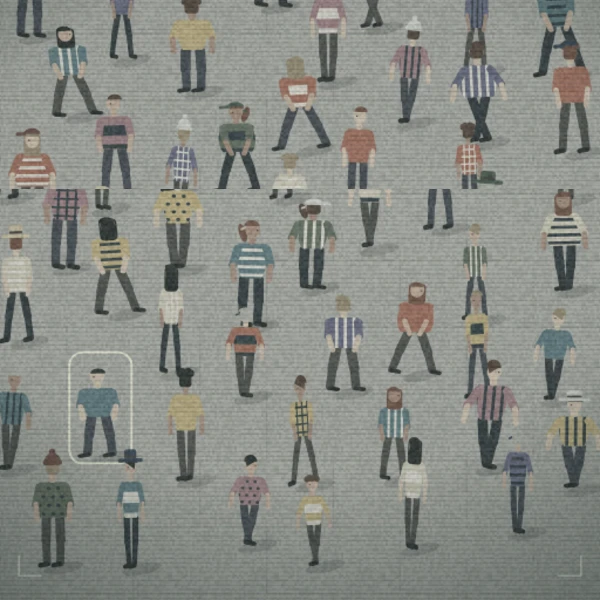
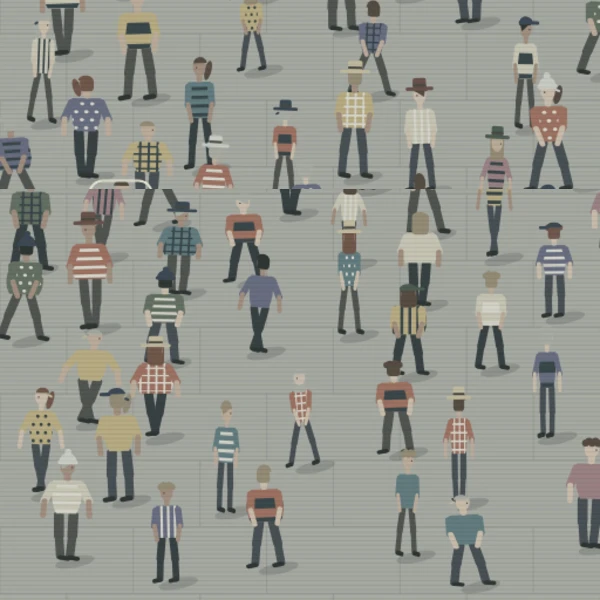
監視カメラの効果を薄い走査線と色味だけに調整

diff --git a/games/_shuto/index.html b/games/_shuto/index.html
@@ -431,49 +431,21 @@
     if(state===S.RESULT&&p.id===attacker){ctx.strokeStyle='#f7cc71';ctx.lineWidth=3;ctx.beginPath();ctx.ellipse(q.x,q.y-44,32,50,0,0,Math.PI*2);ctx.stroke();}
   }
 
-  var cameraPrepared=false,cameraNoise=null,cameraLines=null,cameraShade=null,cameraHeight=0;
-  function prepareCamera(){
+  var cameraPrepared=false,cameraLines=null;
+  function drawCamera(){
     if(!cameraPrepared){
       cameraPrepared=true;
-      var grain=document.createElement('canvas');grain.width=grain.height=96;
-      var g=grain.getContext('2d'),seed=8191;
-      // 映像の粒はゲームの抽選とは別に作り、毎コマの画像生成を避ける。
-      for(var y=0;y<96;y+=2)for(var x=0;x<96;x+=2){
-        seed=(Math.imul(seed,1664525)+1013904223)>>>0;
-        var light=seed>>>24;g.fillStyle='rgb('+light+','+light+','+light+')';g.fillRect(x,y,2,2);
-      }
-      cameraNoise=ctx.createPattern(grain,'repeat');
       var scan=document.createElement('canvas');scan.width=4;scan.height=4;
-      var sc=scan.getContext('2d');sc.fillStyle='rgba(12,27,25,.12)';sc.fillRect(0,0,4,1);
+      var sc=scan.getContext('2d');sc.fillStyle='rgba(12,27,25,.08)';sc.fillRect(0,0,4,1);
       cameraLines=ctx.createPattern(scan,'repeat');
     }
-    if(cameraHeight!==H){
-      cameraHeight=H;
-      cameraShade=ctx.createRadialGradient(W/2,H*.46,W*.18,W/2,H*.48,H*.64);
-      cameraShade.addColorStop(0,'rgba(7,20,18,0)');
-      cameraShade.addColorStop(.55,'rgba(7,20,18,.04)');
-      cameraShade.addColorStop(1,'rgba(7,20,18,.43)');
-    }
-  }
-  function drawCamera(){
-    prepareCamera();ctx.save();
-    // 色は残しつつ彩度を落とし、冷たい色味の録画へ寄せる。
+    ctx.save();
+    // 走査線と冷たい色味だけを薄く重ねる。
     ctx.globalCompositeOperation='saturation';ctx.globalAlpha=.42;
     ctx.fillStyle='#888';ctx.fillRect(0,0,W,H);
     ctx.globalCompositeOperation='source-over';ctx.globalAlpha=1;
     ctx.fillStyle='rgba(38,69,63,.11)';ctx.fillRect(0,0,W,H);
     if(cameraLines){ctx.fillStyle=cameraLines;ctx.fillRect(0,0,W,H);}
-    if(cameraNoise){
-      ctx.save();var frame=Math.floor(T*12);
-      var nx=(frame*37)%96,ny=(frame*53)%96;ctx.translate(-nx,-ny);
-      ctx.globalAlpha=.085;ctx.fillStyle=cameraNoise;ctx.fillRect(0,0,W+96,H+96);ctx.restore();
-    }
-    ctx.fillStyle=cameraShade;ctx.fillRect(0,0,W,H);
-    // 文字を加えず、撮影枠だけを薄く重ねる。
-    ctx.strokeStyle='rgba(224,238,224,.4)';ctx.lineWidth=1.2;
-    [[17,22,1,1],[W-17,22,-1,1],[17,H-22,1,-1],[W-17,H-22,-1,-1]].forEach(function(c){
-      ctx.beginPath();ctx.moveTo(c[0],c[1]+c[3]*18);ctx.lineTo(c[0],c[1]);ctx.lineTo(c[0]+c[2]*20,c[1]);ctx.stroke();
-    });
     ctx.restore();
   }
   function draw() {
